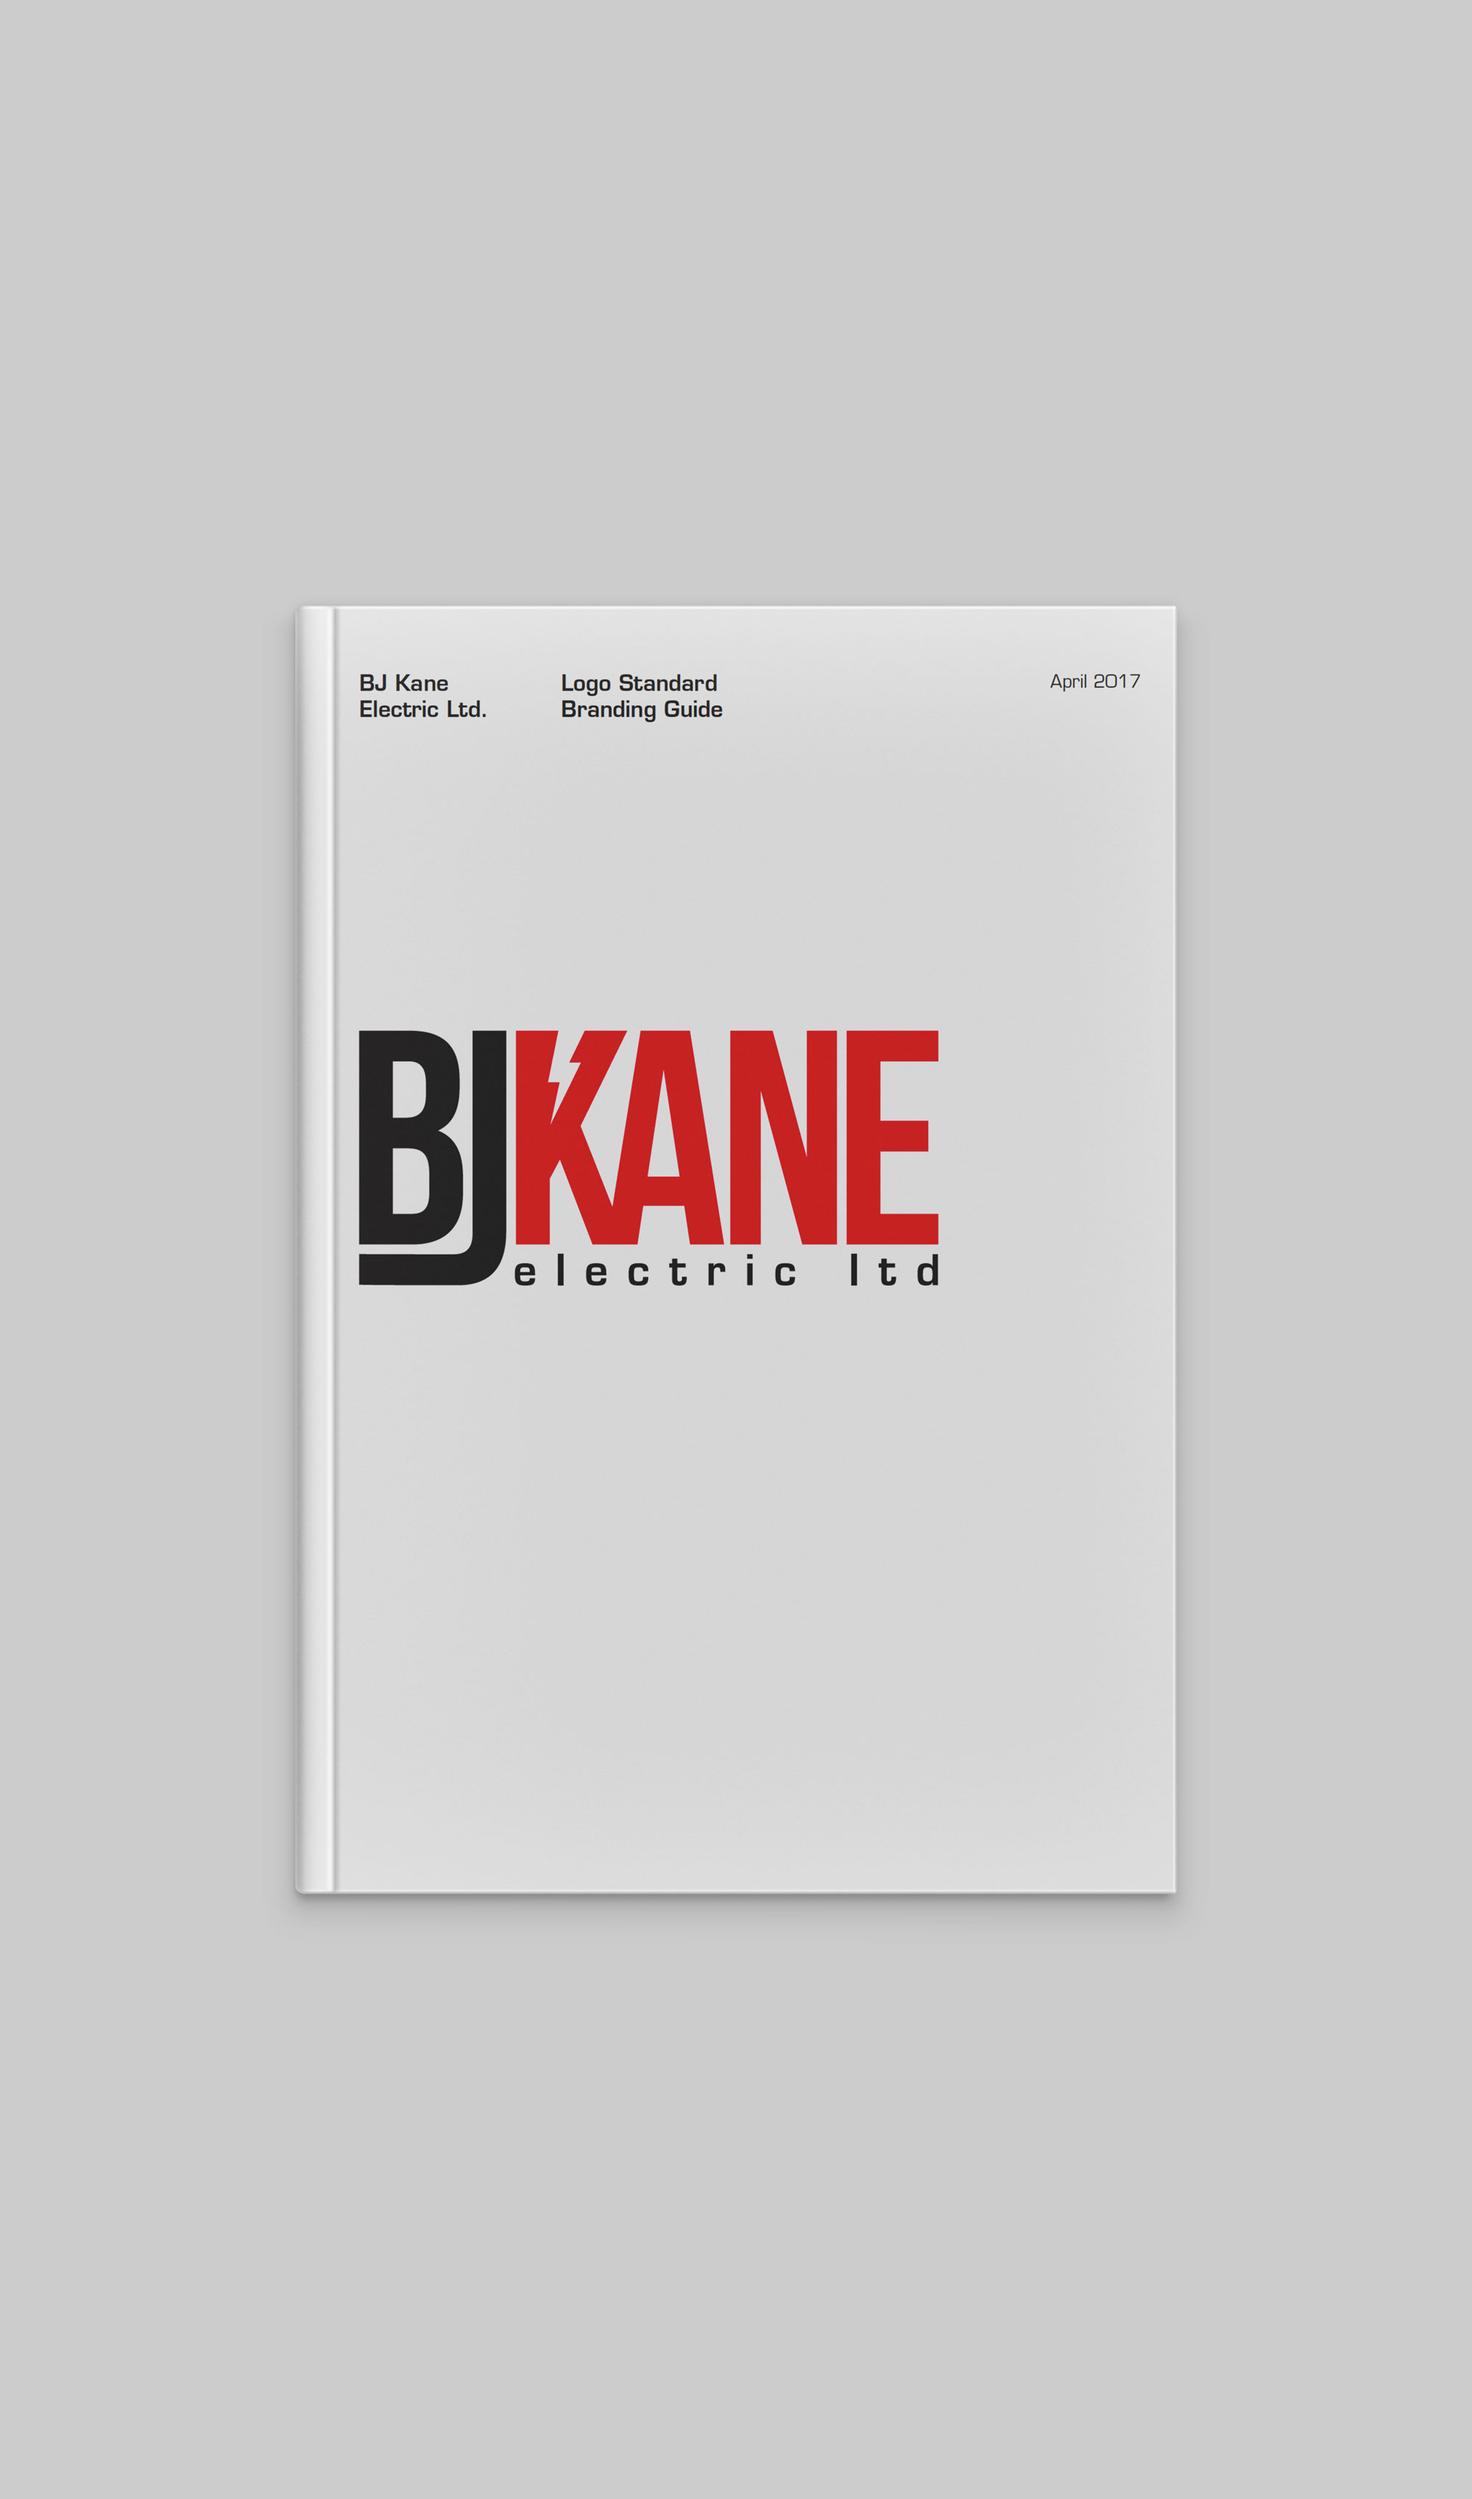
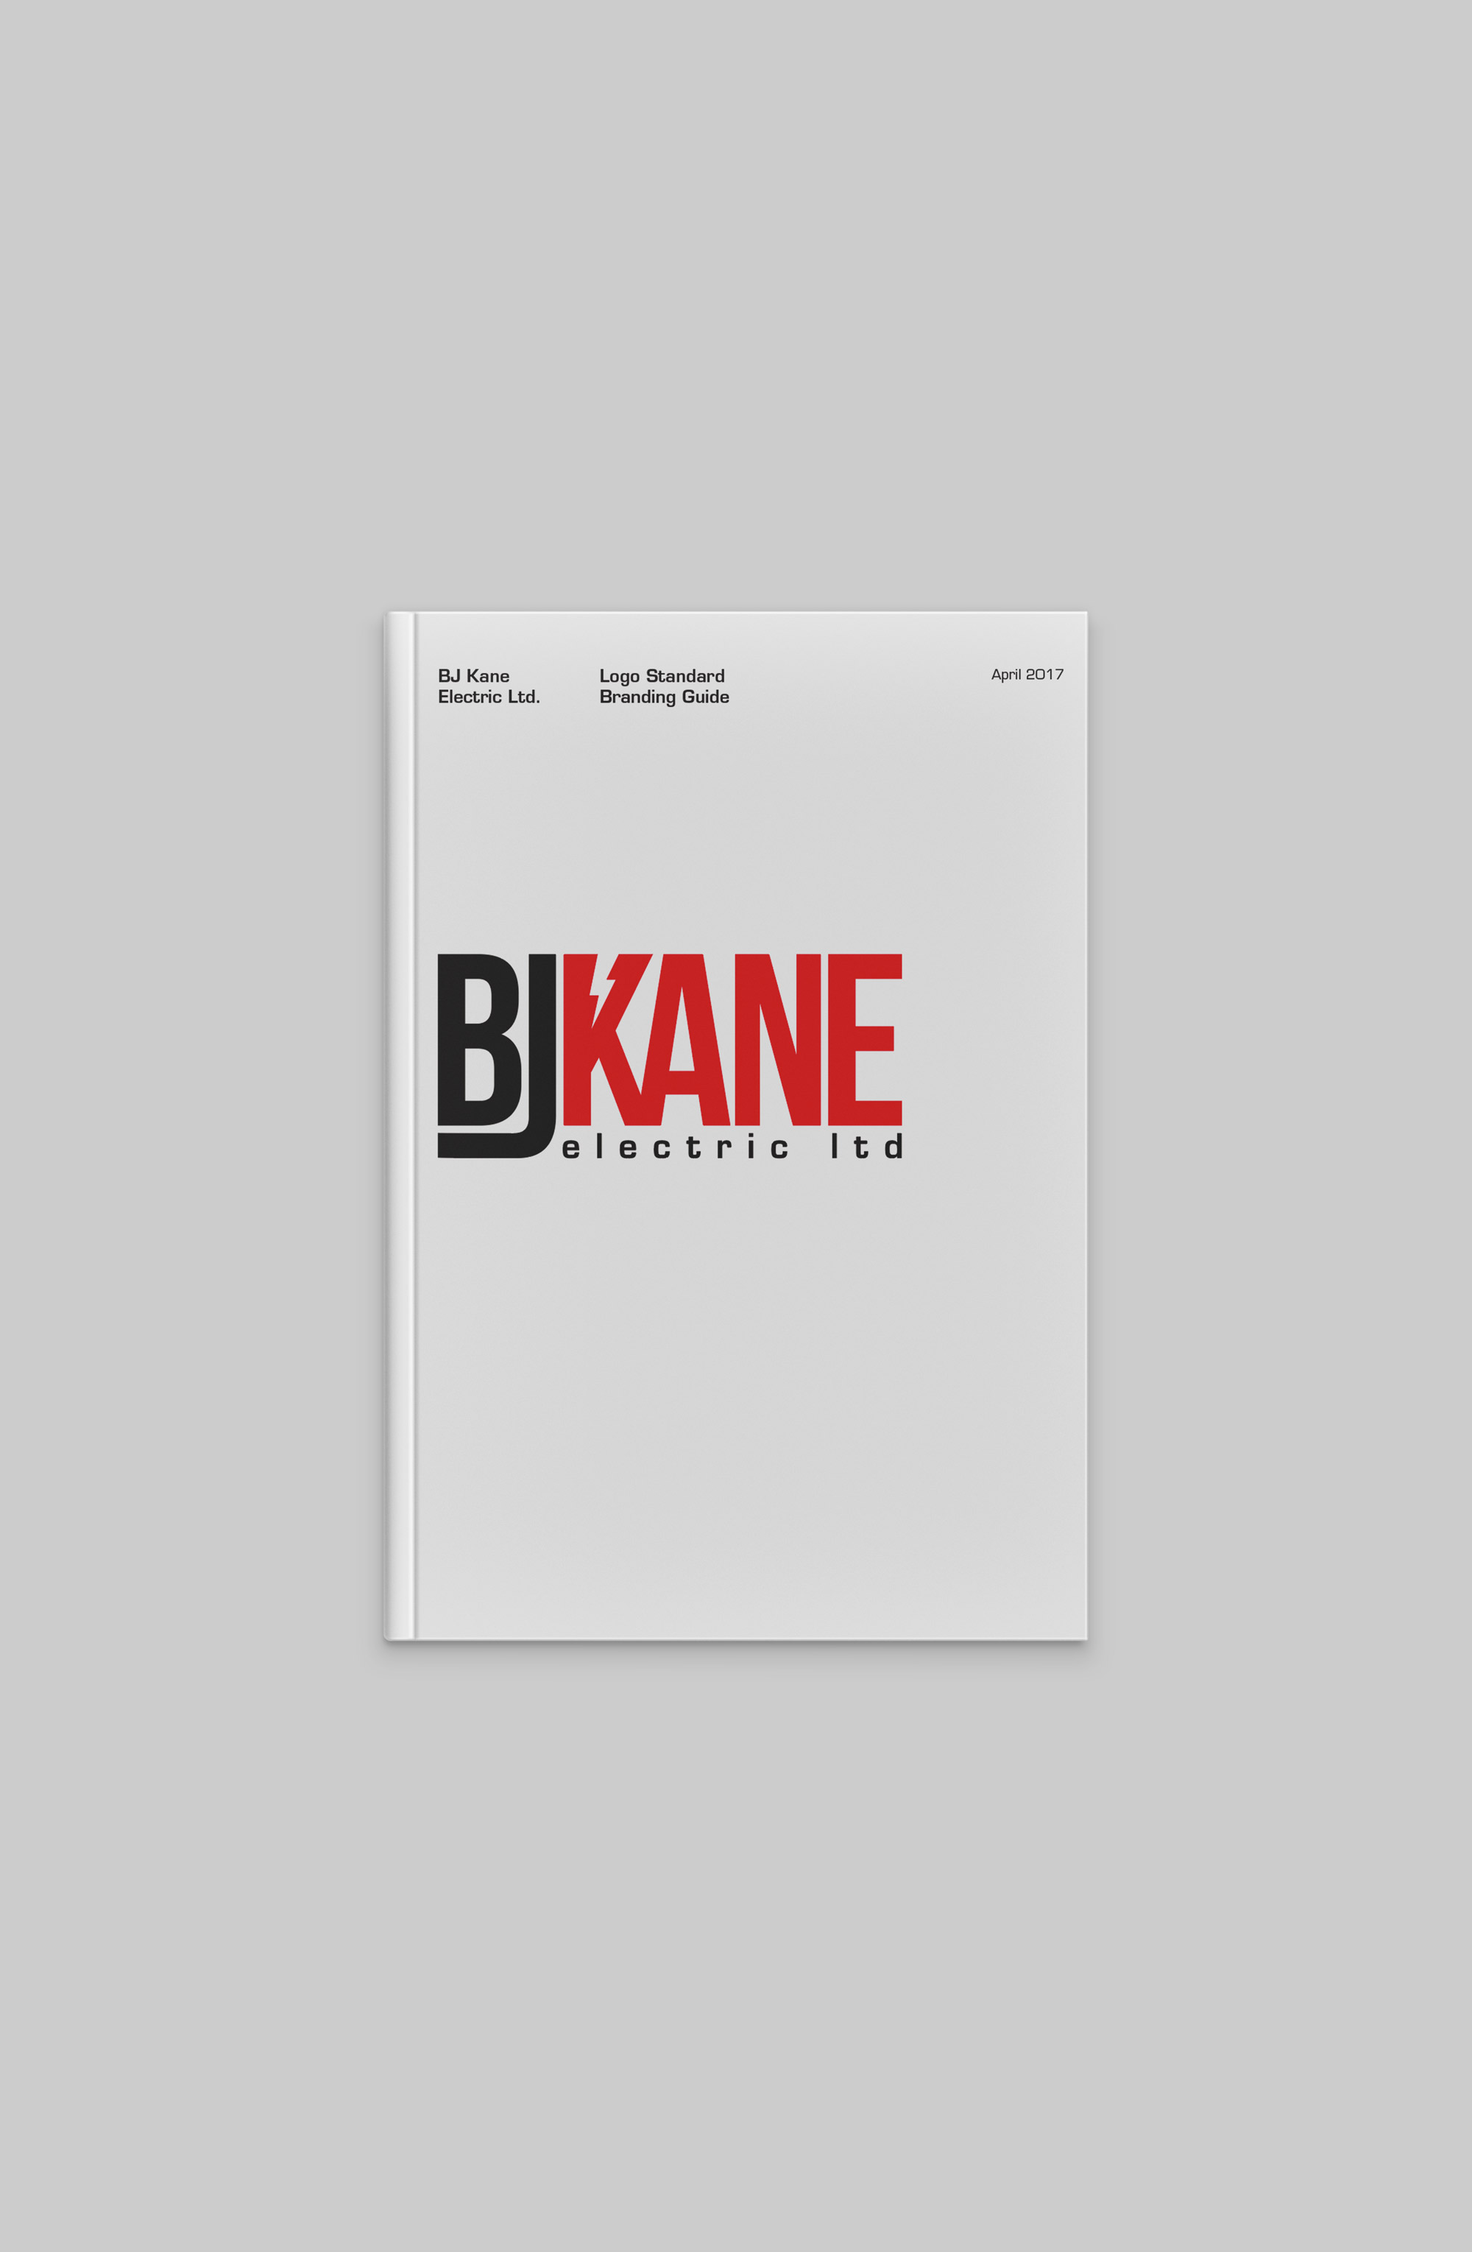
bjkane cover

Changed region(s): [[0.186, 0.2175, 0.806, 0.7767], [0.372, 0.2485, 0.496, 0.3107]]

diff --git a/bjkane.html b/bjkane.html
@@ -31,10 +31,10 @@ description: BJ Kane Electric Case Study
 
     <section class="grid">
       <div class="unit xs-1 m-1-2">
-        <img class="img-flex" src="{{site.baseurl}}/images/bjkane-guide-cover.jpg">
+        <img class="img-flex" src="{{site.baseurl}}/images/bjkane-guide-cover-red2.jpg">
       </div>
       <div class="unit xs-1 m-1-2">
-        <img class="img-flex" src="{{site.baseurl}}/images/bjkane-guide-cover.jpg">
+        <img class="img-flex" src="{{site.baseurl}}/images/bjkane-guide-inside1.jpg">
       </div>
     </section>
 
